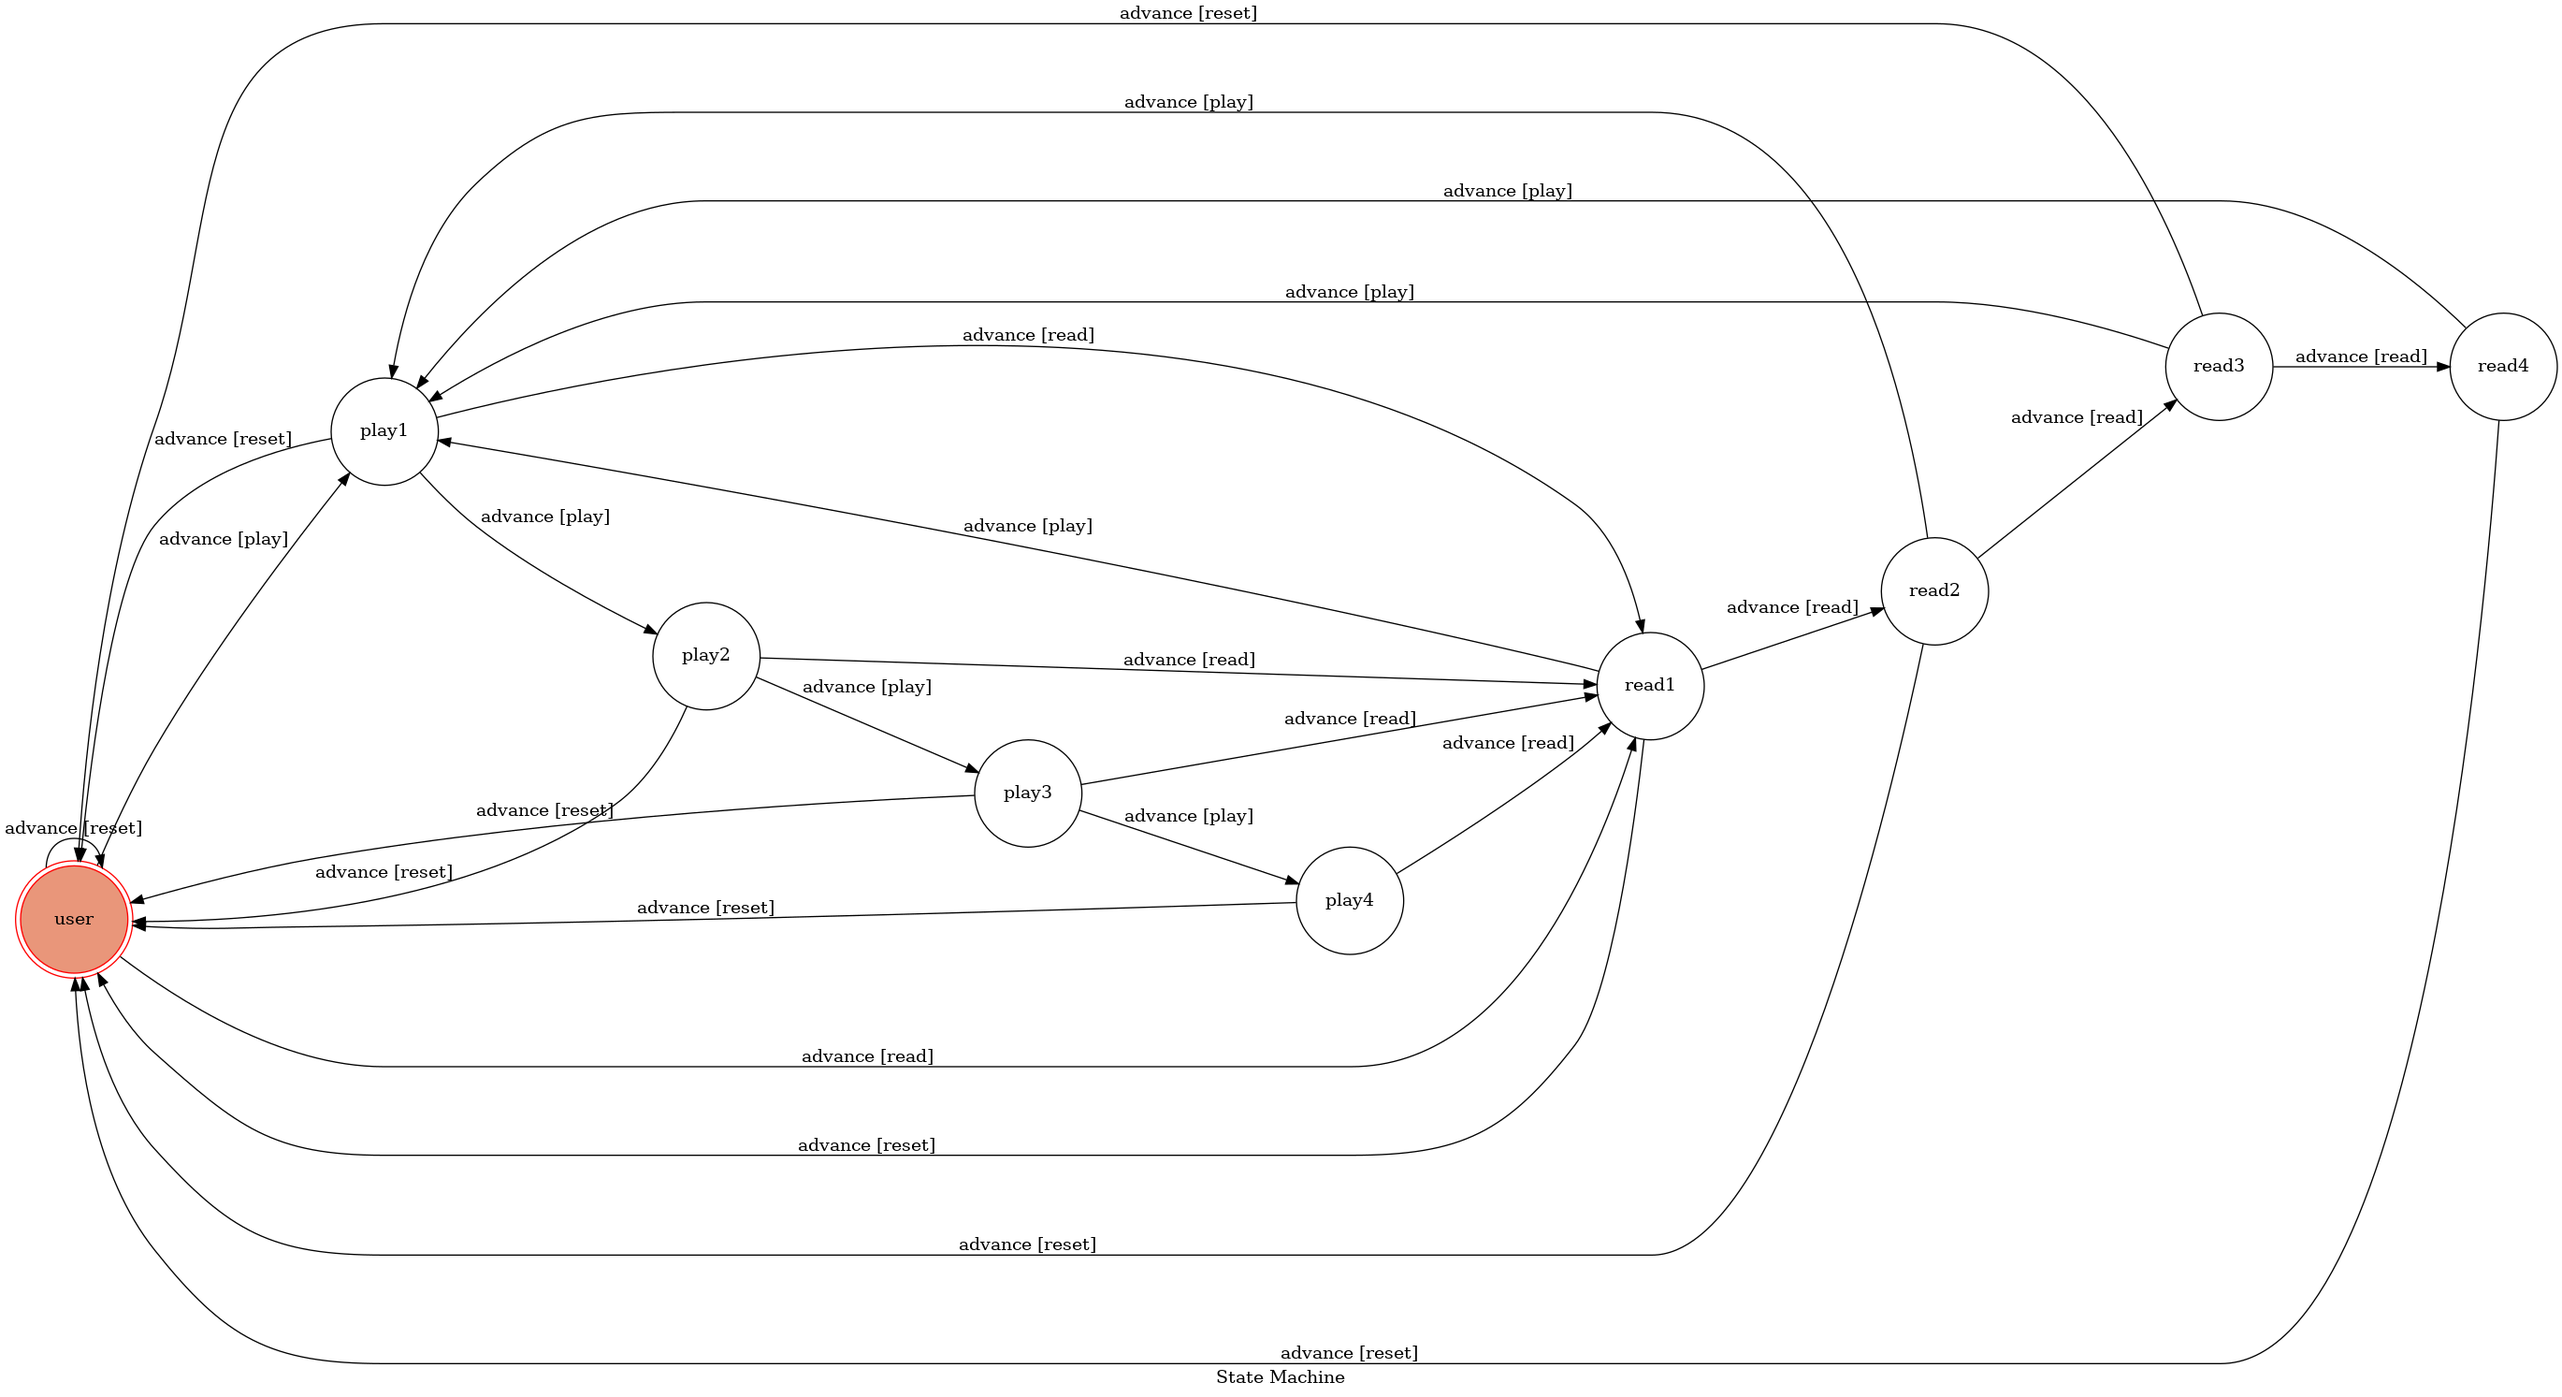
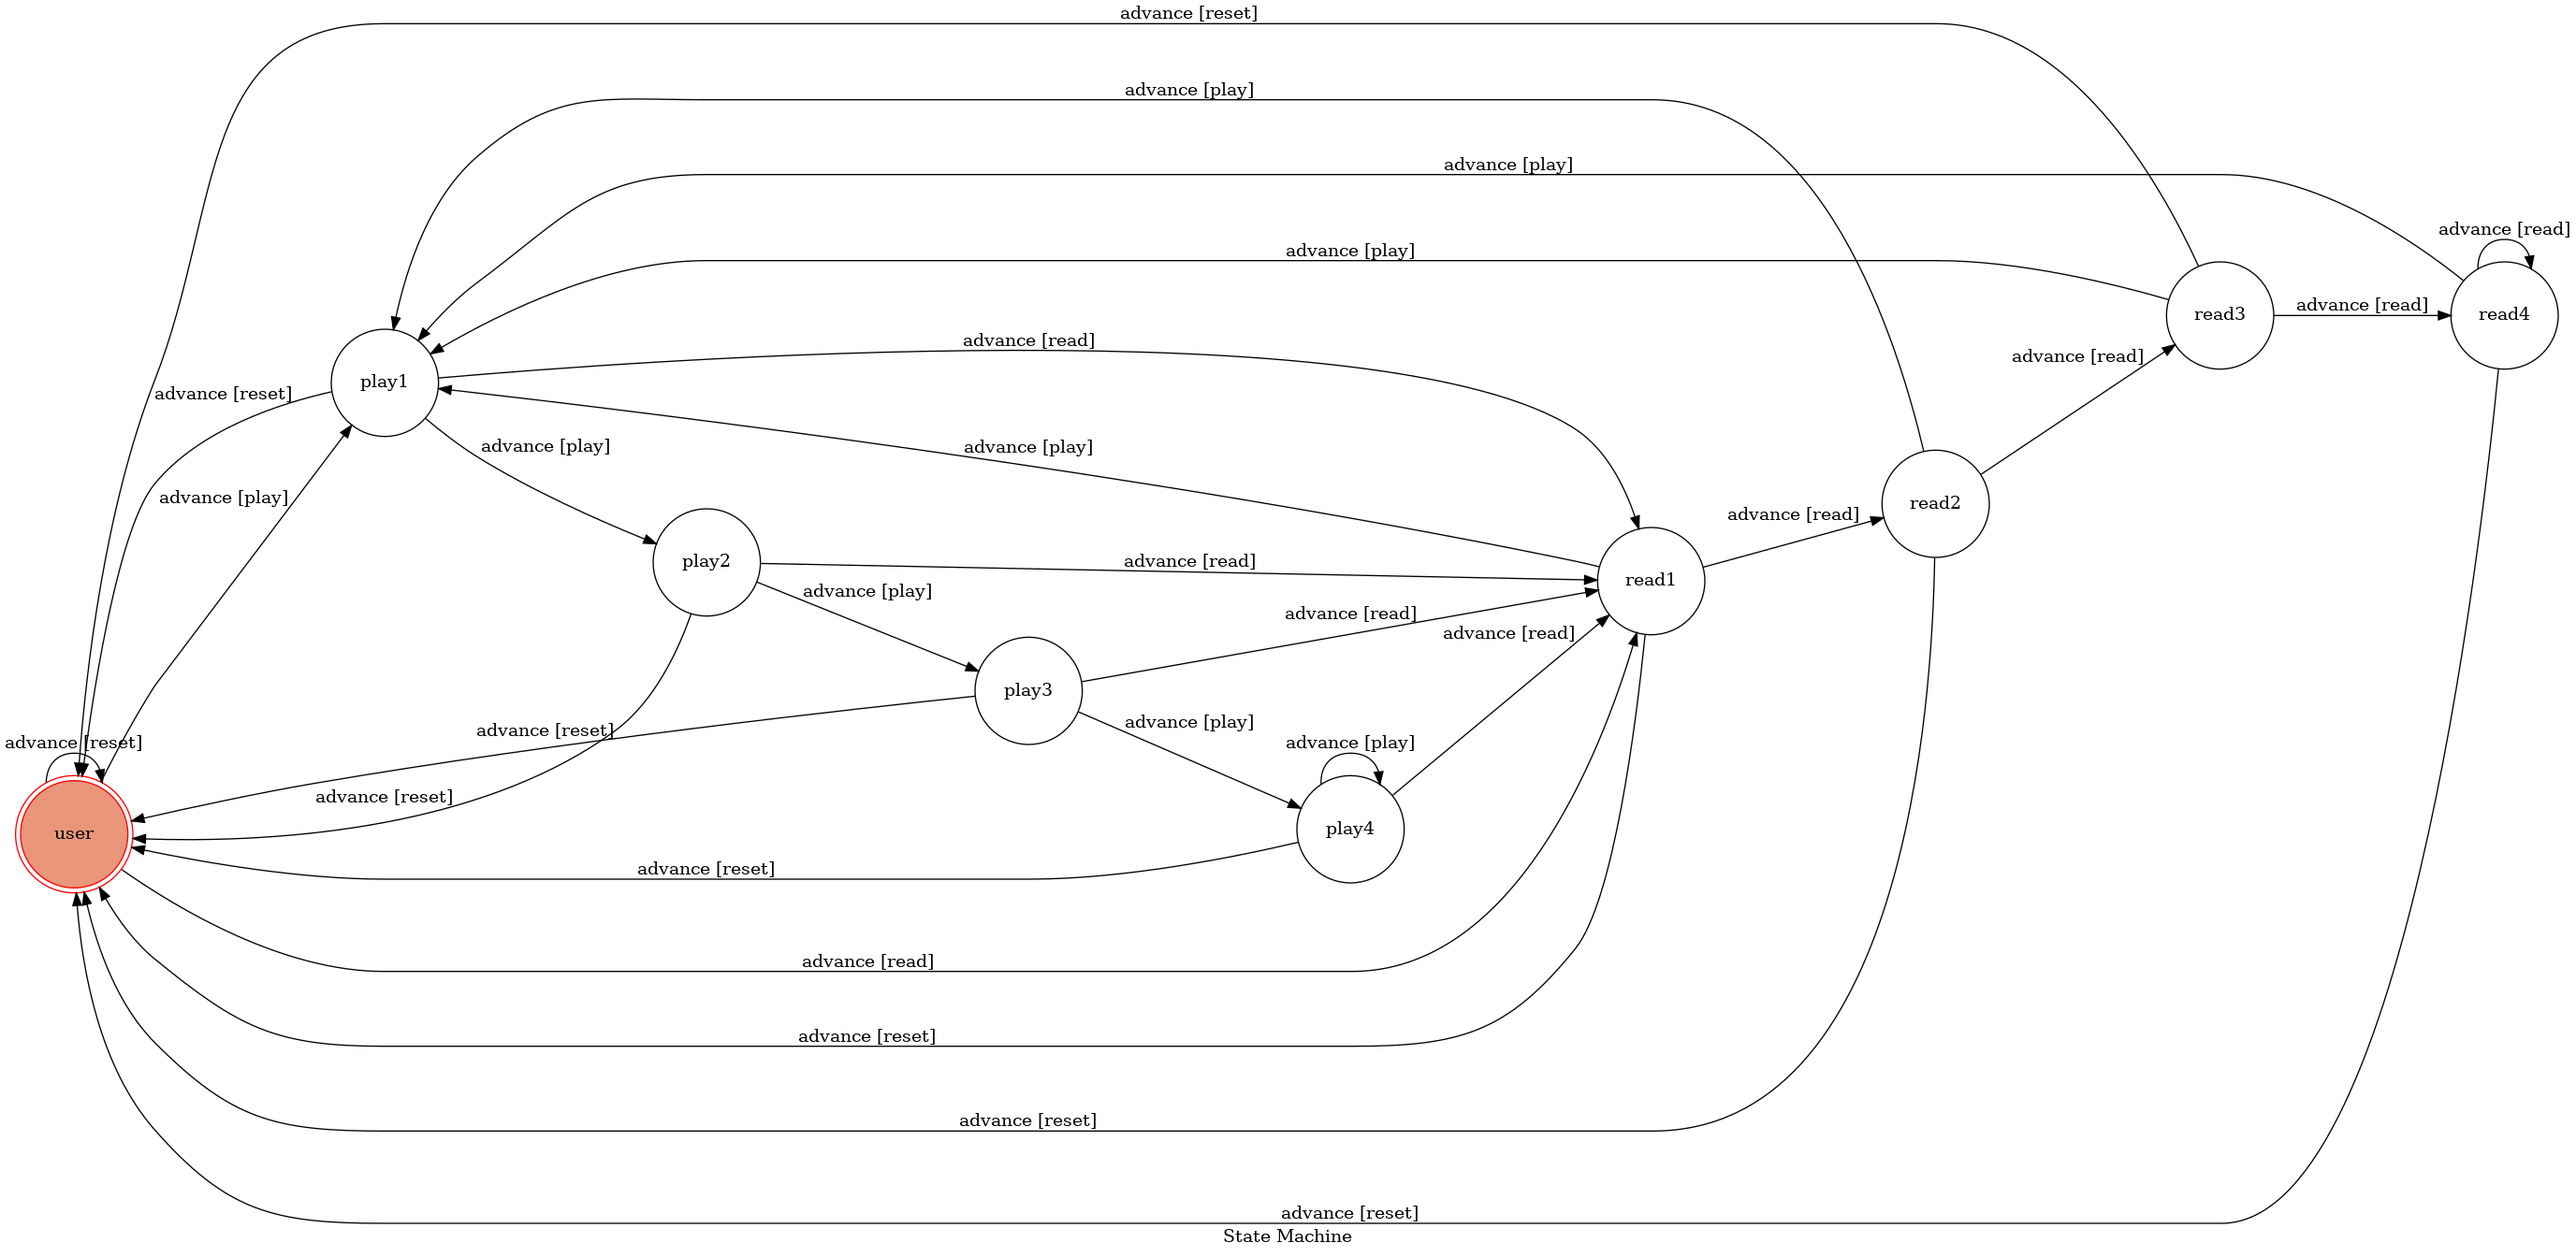
12/29

diff --git a/app.py b/app.py
@@ -42,6 +42,12 @@ machine = TocMachine(
         },
         {
             "trigger": "advance",
+            "source": "play4",
+            "dest": "play4",
+            "conditions": "play",
+        },
+        {
+            "trigger": "advance",
             "source": "user",
             "dest": "read1",
             "conditions": "read",
@@ -61,6 +67,12 @@ machine = TocMachine(
         {
             "trigger": "advance",
             "source": "read3",
+            "dest": "read4",
+            "conditions": "read",
+        },
+        {
+            "trigger": "advance",
+            "source": "read4",
             "dest": "read4",
             "conditions": "read",
         },
